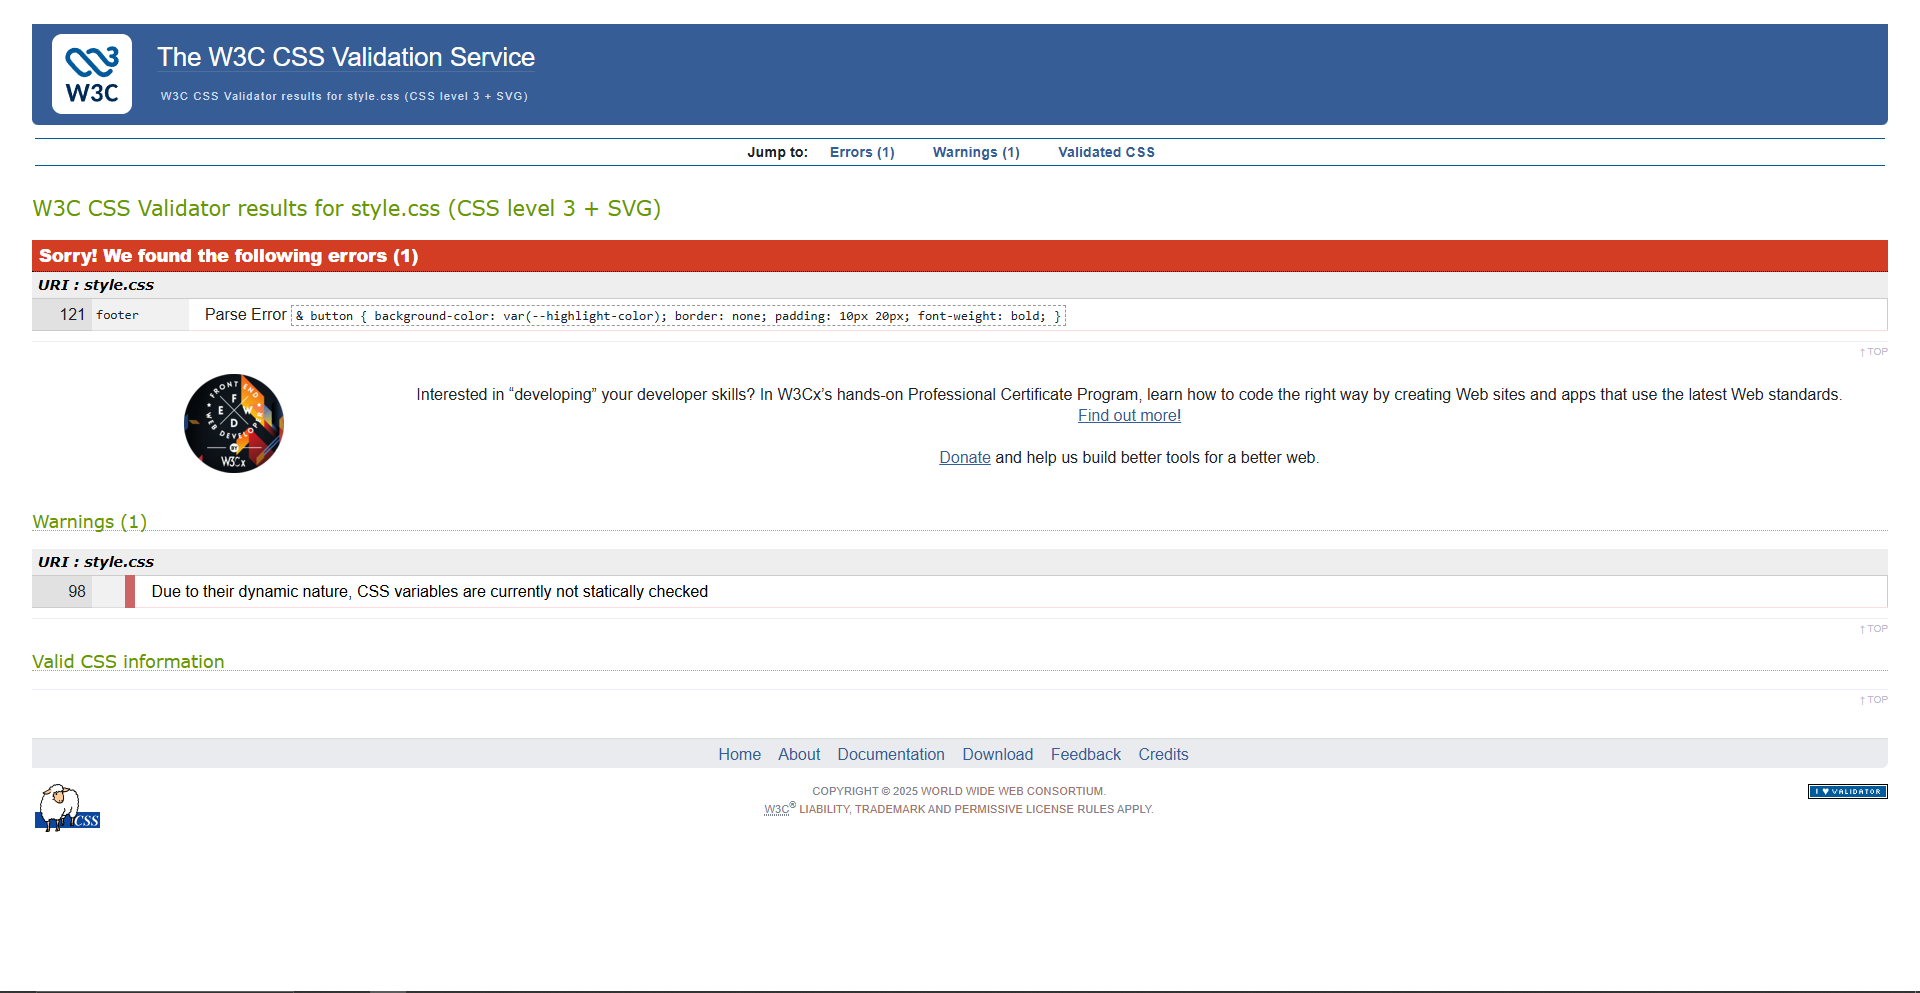
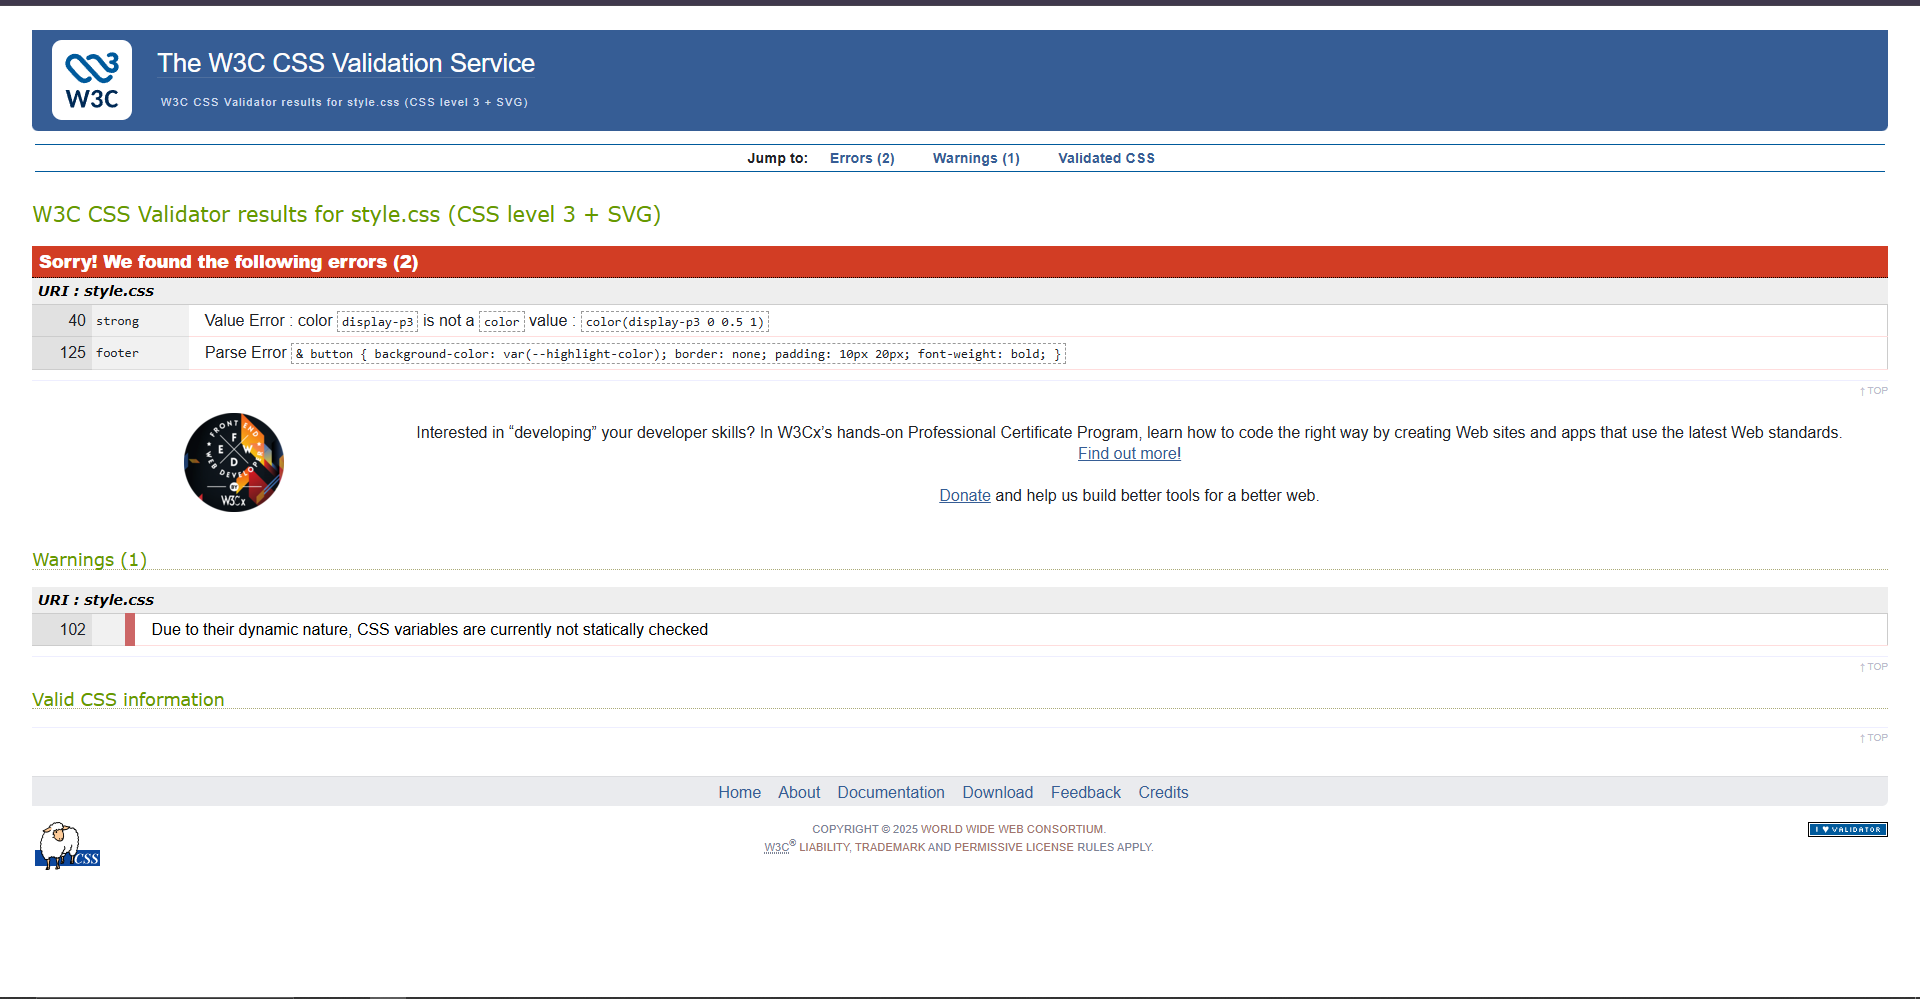
Made small fixes for lab requirements and updated screenshot

diff --git a/style.css b/style.css
@@ -36,6 +36,10 @@ h1, h2 {
     margin-right: 5px;
 }
 
+strong {
+    color: color(display-p3 0 0.5 1);
+}
+
 header {
     display: block;
     padding-top: 1rem;
